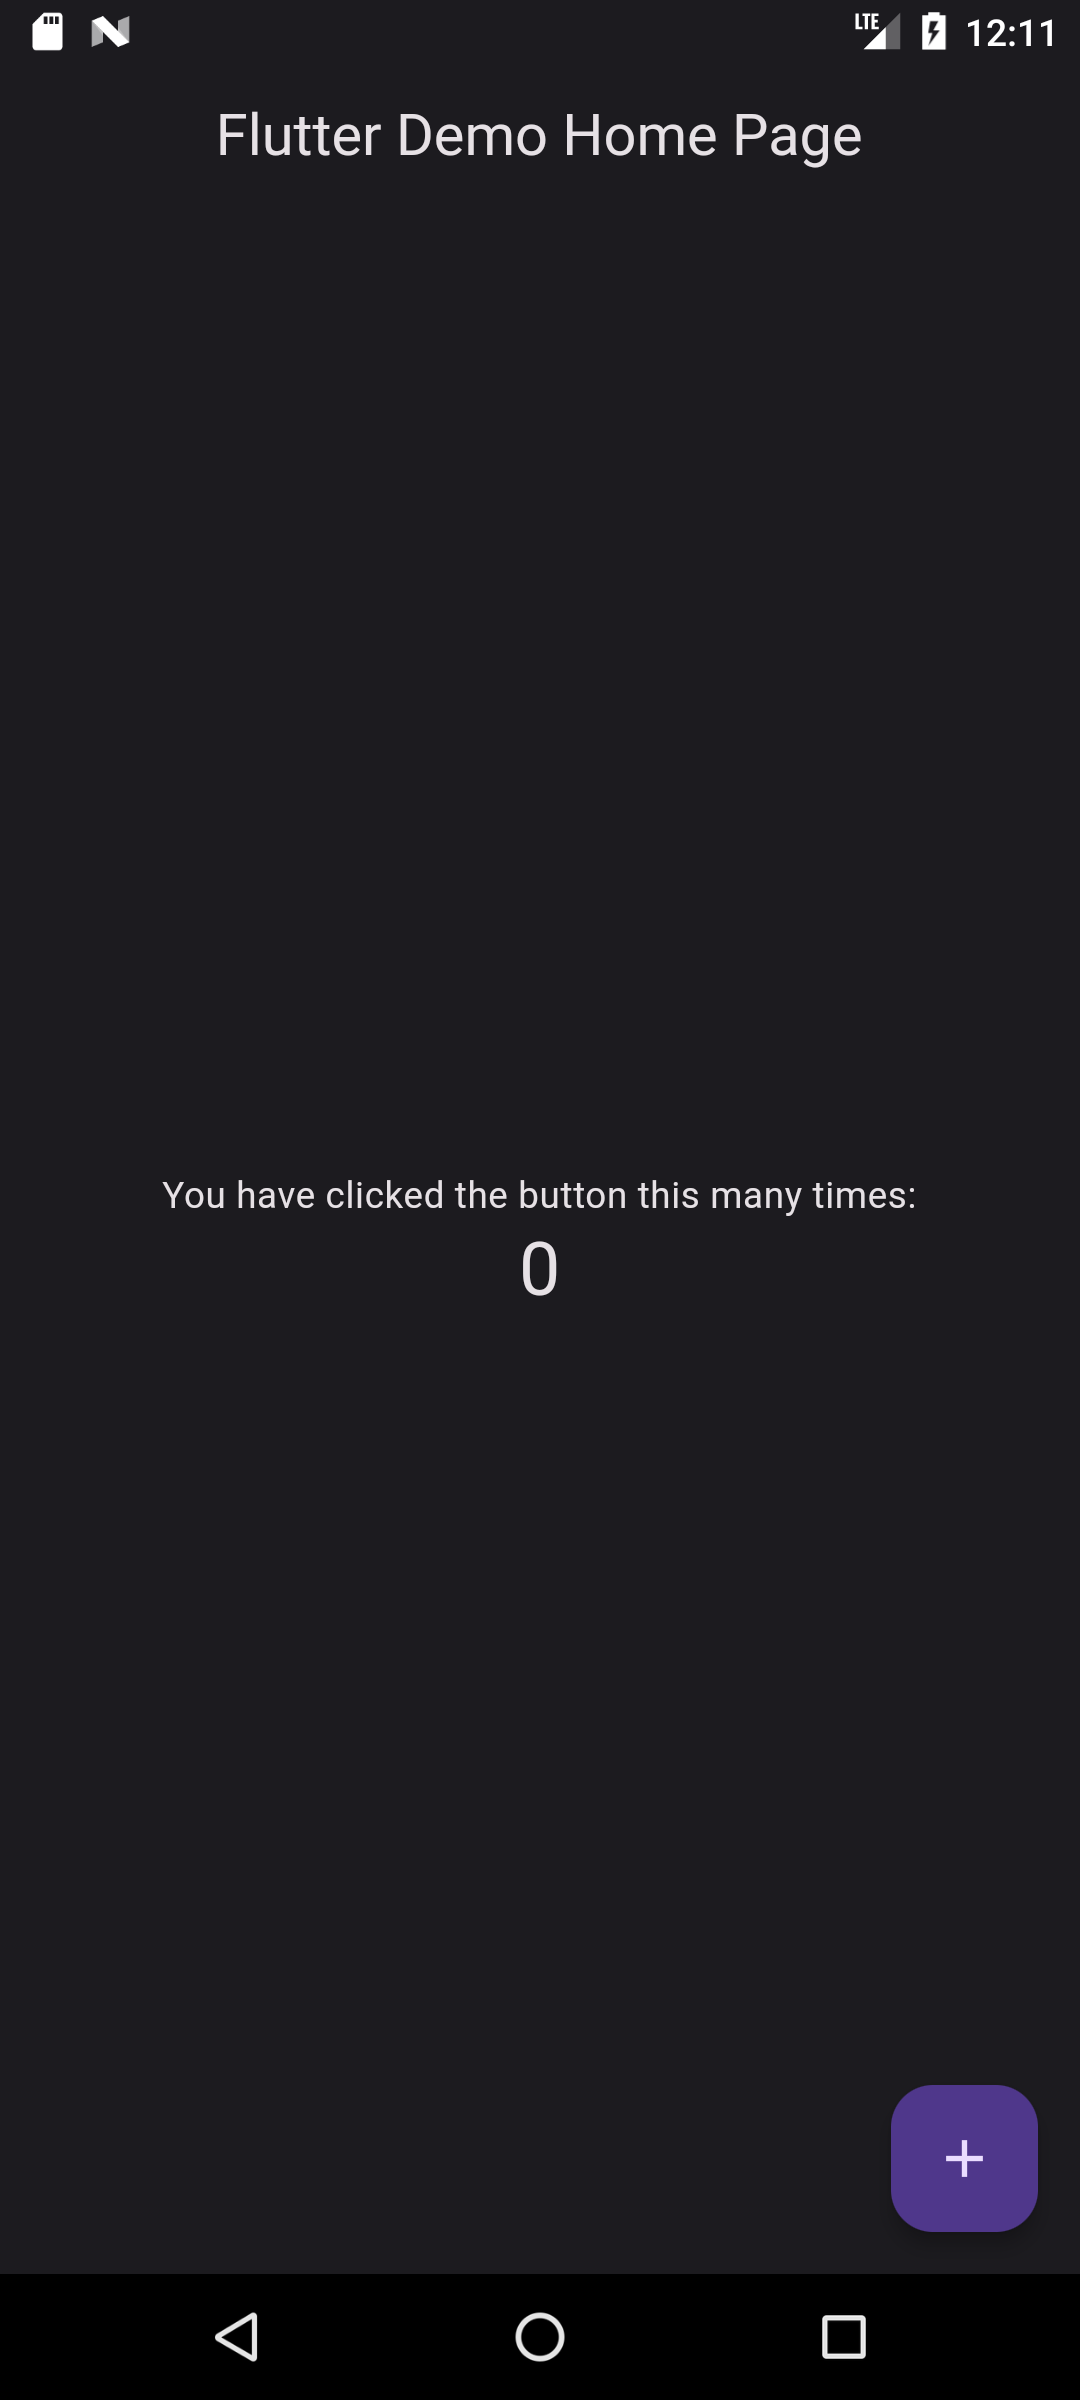
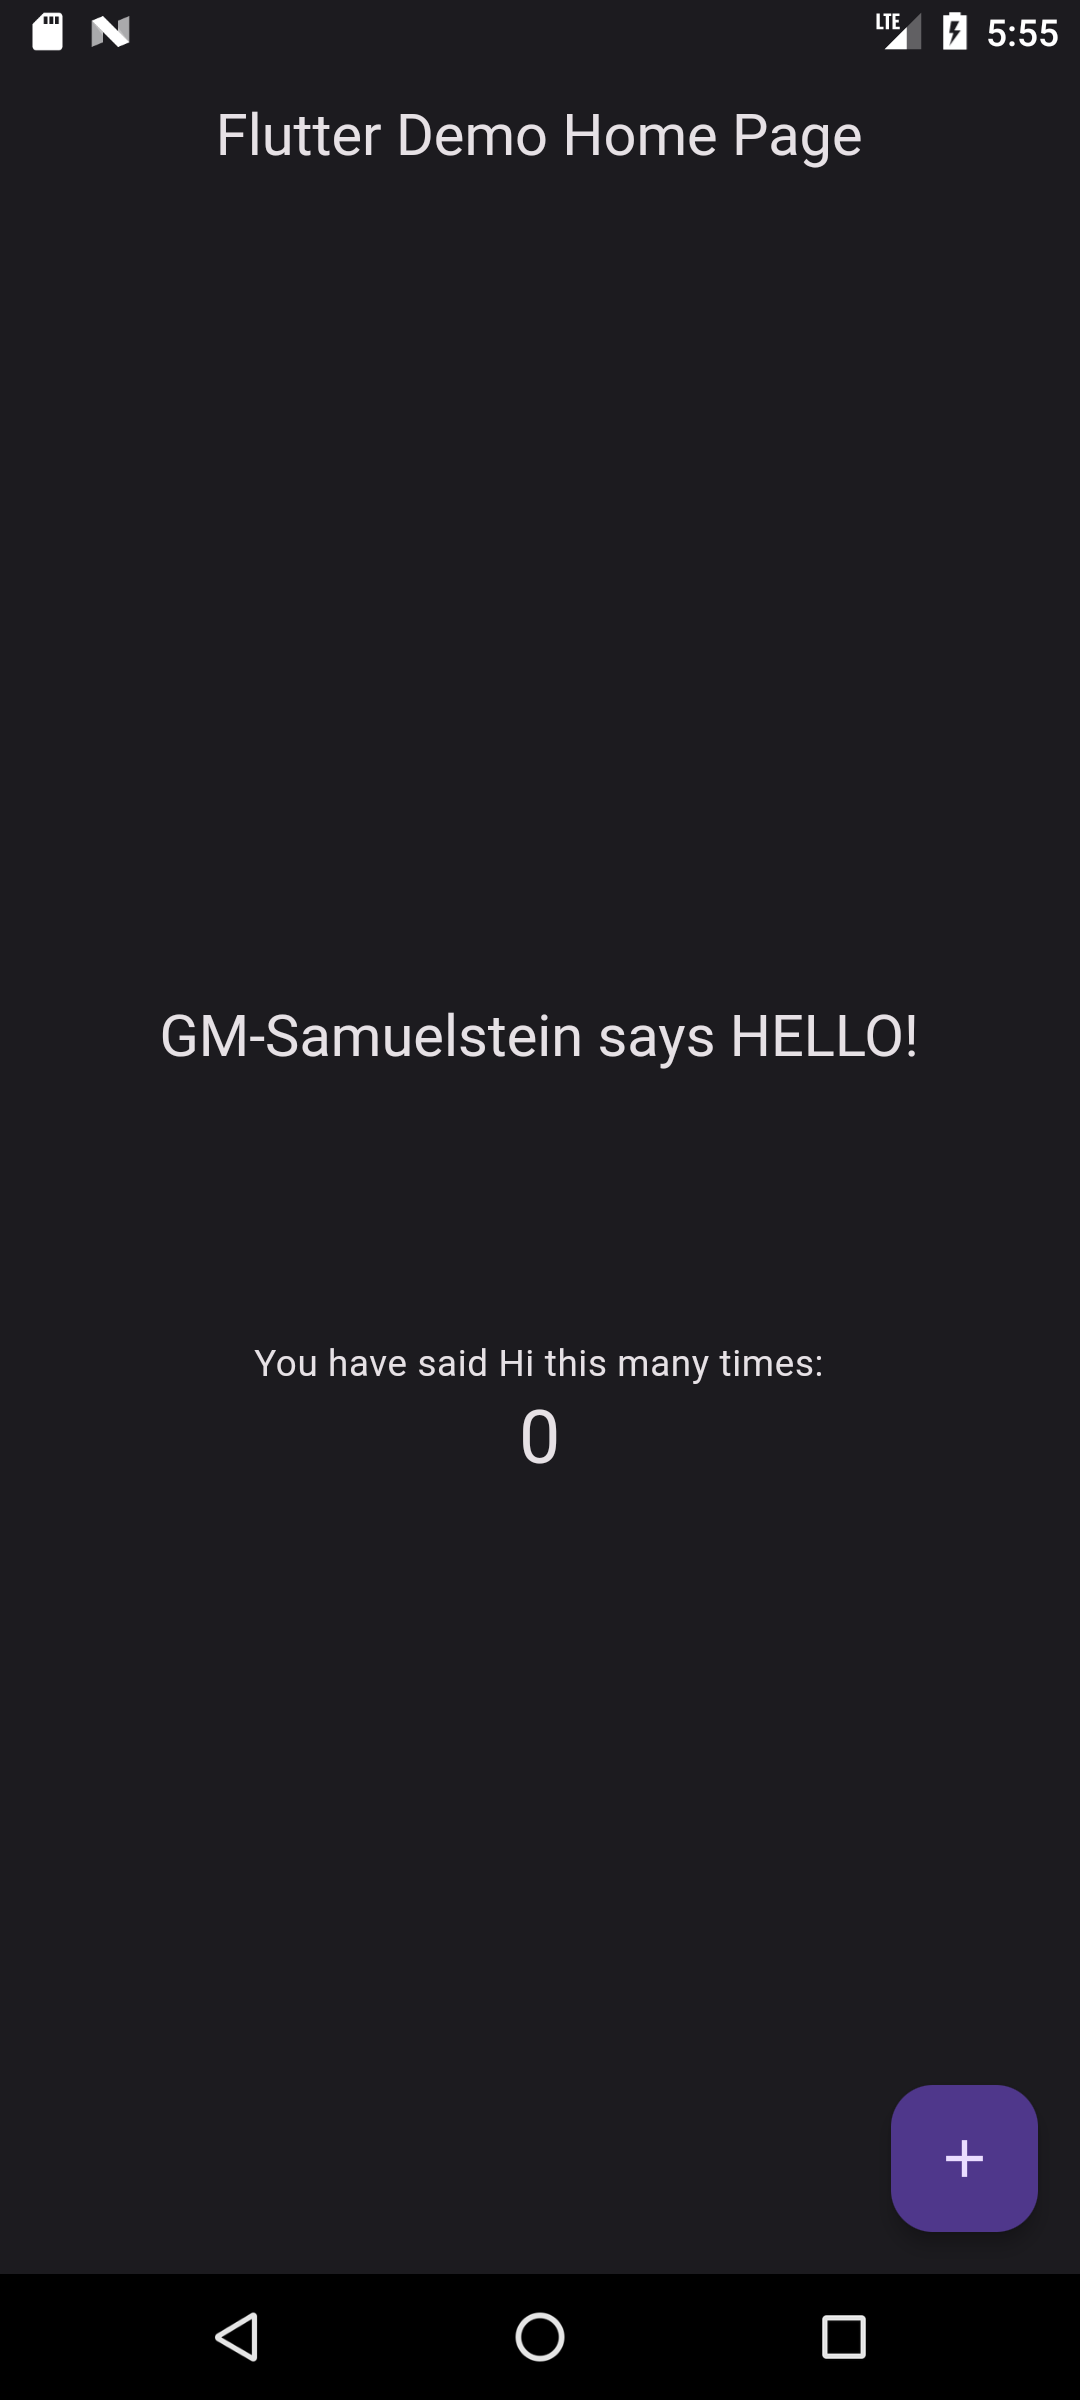
personalization touch

diff --git a/flutter_demo/lib/main.dart b/flutter_demo/lib/main.dart
@@ -98,8 +98,13 @@ class _MyHomePageState extends State<MyHomePage> {
           // horizontal).
           mainAxisAlignment: MainAxisAlignment.center,
           children: <Widget>[
+            Text(
+              'GM-Samuelstein says HELLO!',
+              style: Theme.of(context).textTheme.titleLarge,
+            ),
+            const SizedBox(height: 100.0,),
             const Text(
-              'You have clicked the button this many times:',
+              'You have said Hi this many times:',
             ),
             Text(
               '$_counter',
